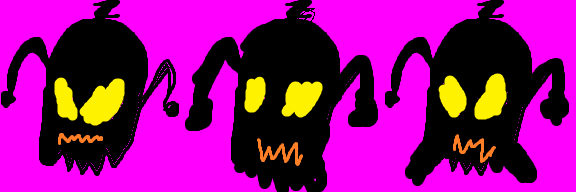
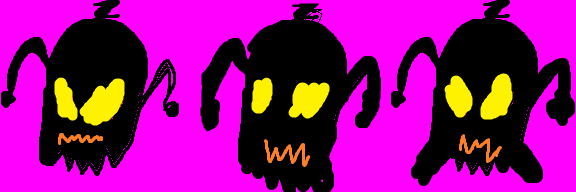
extracted classes and fixed boss animation texture collapsing

Changed region(s): [[0.3125, 0.0, 1.0, 1.0]]

diff --git a/Dungeon Crawler/Classes/Map/LevelManager.cs b/Dungeon Crawler/Classes/Map/LevelManager.cs
@@ -194,7 +194,7 @@ namespace Dungeon_Crawler
 
             float timeBetweenActions = 1f;
             Character tempBoss =
-                new Boss(_animationsBoss, cellSize, player.CurrentMapLevel, timeBetweenActions, map, bossOccupyingCells)
+                new DemonOak(_animationsBoss, cellSize, player.CurrentMapLevel, timeBetweenActions, map, bossOccupyingCells)
                 {
                     Name = DemonOakNamesList[Global.random.Next(DemonOakNamesList.Count)],
                     Position = new Vector2((randomCell.X * cellSize), (randomCell.Y * cellSize))
@@ -278,7 +278,7 @@ namespace Dungeon_Crawler
                     enemyName = "Blob";
 
                     Character tempEnemy =
-                    new Enemy(_animationsBlob, cellSize, level, speed, timeBetweenActions, map, enemyName)
+                    new Blob(_animationsBlob, cellSize, level, speed, timeBetweenActions, map, enemyName)
                     {
                         Name = BlobNamesList[Global.random.Next(BlobNamesList.Count)],
                         Position = new Vector2((randomCell.X * cellSize + cellSize / 3), (randomCell.Y * cellSize) + cellSize / 3)
@@ -291,7 +291,7 @@ namespace Dungeon_Crawler
                     enemyName = "Skeleton";
 
                     Character tempEnemy =
-                    new Enemy(_animationsSkeleton, cellSize, level, speed, timeBetweenActions, map, enemyName)
+                    new Skeleton(_animationsSkeleton, cellSize, level, speed, timeBetweenActions, map, enemyName)
                     {
                         Name = SkeletonNamesList[Global.random.Next(SkeletonNamesList.Count)],
                         Position = new Vector2((randomCell.X * cellSize + cellSize / 3), (randomCell.Y * cellSize) + cellSize / 3)
@@ -304,7 +304,7 @@ namespace Dungeon_Crawler
                     enemyName = "Zombie";
 
                     Character tempEnemy =
-                    new Enemy(_animationsZombie, cellSize, level, speed, timeBetweenActions, map, enemyName)
+                    new Zombie(_animationsZombie, cellSize, level, speed, timeBetweenActions, map, enemyName)
                     {
                         Name = ZombieNamesList[Global.random.Next(ZombieNamesList.Count)],
                         Position = new Vector2((randomCell.X * cellSize + cellSize / 3), (randomCell.Y * cellSize) + cellSize / 3)

diff --git a/Dungeon Crawler/Classes/Characters/Bosses/DemonOak.cs b/Dungeon Crawler/Classes/Characters/Bosses/DemonOak.cs
@@ -1,0 +1,27 @@
+using System.Collections.Generic;
+using RogueSharp;
+using System;
+
+namespace Dungeon_Crawler
+{
+    public class DemonOak : Boss
+    {
+        public DemonOak(Dictionary<string, Animation> _animations, int cellSize, int level, float timeBetweenActions, Map map, List<Cell> cells) : base(_animations, cellSize, level, timeBetweenActions, map, cells)
+        {
+        }
+
+        public override void calculateStatistics()
+        {
+            Health = CurrentHealth = 210 + Level * 10;
+            Defense = 210 + Level * 3;
+            SpDefense = 210 + Level * 5;
+            Attack = (int)Math.Floor(210 + Level * 2.5);
+            SpAttack = 210 + Level * 3;
+            Speed = 0f;
+        }
+        public override void SetAttack()
+        {
+            ProjectileAttack = new BigFireballCanonade();
+        }
+    }
+}

diff --git a/Dungeon Crawler/Classes/Characters/Enemies/Skeleton.cs b/Dungeon Crawler/Classes/Characters/Enemies/Skeleton.cs
@@ -1,0 +1,22 @@
+using System.Collections.Generic;
+using RogueSharp;
+using System;
+
+namespace Dungeon_Crawler
+{
+    public class Skeleton : Enemy
+    {
+        public Skeleton(Dictionary<string, Animation> _animations, int cellSize, int level, float speed, float timeBetweenActions, Map map, string name) : base(_animations, cellSize, level, speed, timeBetweenActions, map, name)
+        {
+        }
+        public override void calculateStatistics()
+        {
+            Health = CurrentHealth = 10 + Level * 10;
+            Defense = 30 + Level * 3;
+            SpDefense = 50 + Level * 5;
+            Attack = (int)Math.Floor(35 + Level * 2.5f);
+            SpAttack = 50 + Level * 3;
+            //Speed = todo..
+        }
+    }
+}

diff --git a/Dungeon Crawler/Classes/Characters/Enemies/Zombie.cs b/Dungeon Crawler/Classes/Characters/Enemies/Zombie.cs
@@ -1,0 +1,22 @@
+using System.Collections.Generic;
+using RogueSharp;
+using System;
+
+namespace Dungeon_Crawler
+{
+    public class Zombie : Enemy
+    {
+        public Zombie(Dictionary<string, Animation> _animations, int cellSize, int level, float speed, float timeBetweenActions, Map map, string name) : base(_animations, cellSize, level, speed, timeBetweenActions, map, name)
+        {
+        }
+        public override void calculateStatistics()
+        {
+            Health = CurrentHealth = 10 + Level * 10;
+            Defense = 30 + Level * 3;
+            SpDefense = 50 + Level * 5;
+            Attack = (int)Math.Floor(35 + Level * 2.5f);
+            SpAttack = 50 + Level * 3;
+            //Speed = todo..
+        }
+    }
+}

diff --git a/Dungeon Crawler/Classes/Characters/Enemies/Blob.cs b/Dungeon Crawler/Classes/Characters/Enemies/Blob.cs
@@ -1,0 +1,22 @@
+using System.Collections.Generic;
+using RogueSharp;
+using System;
+
+namespace Dungeon_Crawler
+{
+    public class Blob : Enemy
+    {
+        public Blob(Dictionary<string, Animation> _animations, int cellSize, int level, float speed, float timeBetweenActions, Map map, string name) : base(_animations, cellSize, level, speed, timeBetweenActions, map, name)
+        {
+        }
+        public override void calculateStatistics()
+        {
+            Health = CurrentHealth = 10 + Level * 10;
+            Defense = 30 + Level * 3;
+            SpDefense = 50 + Level * 5;
+            Attack = (int)Math.Floor(35 + Level * 2.5f);
+            SpAttack = 50 + Level * 3;
+            //Speed = todo..
+        }
+    }
+}

diff --git a/Dungeon Crawler/Classes/Characters/Boss.cs b/Dungeon Crawler/Classes/Characters/Boss.cs
@@ -20,7 +20,7 @@ namespace Dungeon_Crawler
         Map map;
 
         //Attacks
-        IPositionTargetedAttack ProjectileAttack;
+        public IPositionTargetedAttack ProjectileAttack;
 
         public Boss(Dictionary<string, Animation> _animations, int cellSize, int level, float timeBetweenActions, Map map, List<Cell> cells)
         {
@@ -38,7 +38,12 @@ namespace Dungeon_Crawler
             CellY = (int)Math.Floor(Center.Y / cellSize);
             occupyingCells = cells;
             Name = "Demon Oak";
-            //Set attacks
+
+            SetAttack();
+        }
+
+        public virtual void SetAttack()
+        {
             ProjectileAttack = new BigFireballCanonade();
         }
 
